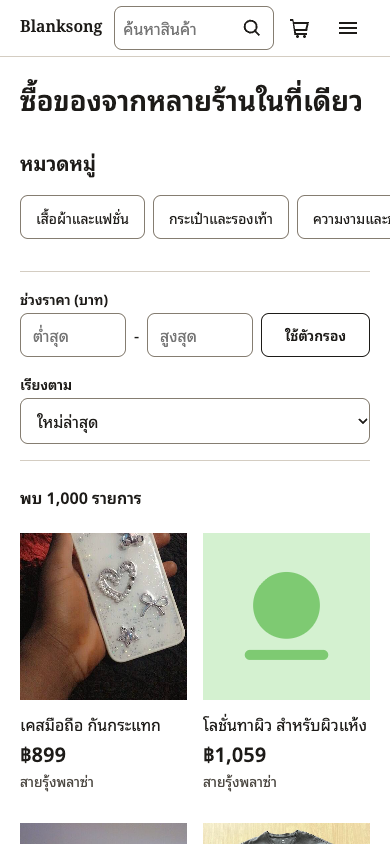
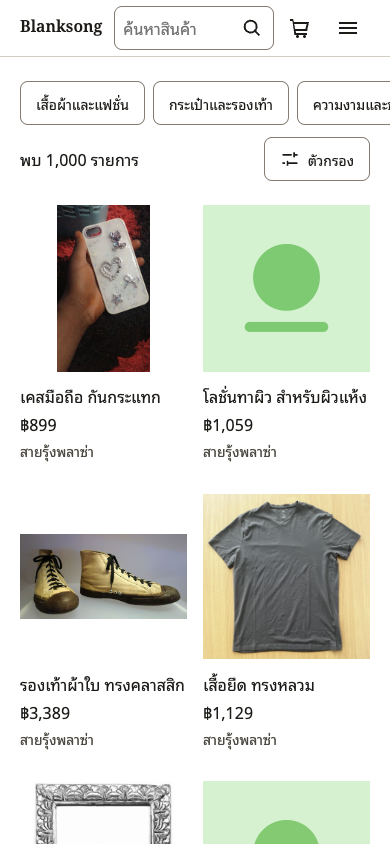
Name the active filters on an empty result, move the seller's empty-shop note under the numbers, and add round-2 screenshots
Screenshots cover home, search, storefront, open-shop, seller home and shop settings at 1440x900 and 390x844, plus the empty, not-found, validation and count-failed states.

diff --git a/src/app/seller/page.tsx b/src/app/seller/page.tsx
@@ -61,13 +61,6 @@ export default async function SellerHomePage({ searchParams }: PageProps<"/selle
           <p className={styles.meta}>สถานะร้าน {shop.status}</p>
         </div>
       </header>
-      {products.listed === 0 && (
-        <EmptyState title="ร้านของคุณยังไม่มีสินค้า">
-          <Link href="/seller/products/new" className="button">
-            ลงสินค้าชิ้นแรก
-          </Link>
-        </EmptyState>
-      )}
       <dl className={styles.stats}>
         {numbers.map((number) => (
           <div key={number.label} className={styles.stat}>
@@ -89,6 +82,13 @@ export default async function SellerHomePage({ searchParams }: PageProps<"/selle
       </dl>
       {/* ปุ่มเดียวโหลดทุกตัวเลขใหม่ หน้าจึงมีปุ่มสีเน้นไม่เกินหนึ่งปุ่ม */}
       {numbers.some((number) => number.value === null) && <RetryButton />}
+      {products.listed === 0 && (
+        <EmptyState title="ร้านของคุณยังไม่มีสินค้า">
+          <Link href="/seller/products/new" className="button">
+            ลงสินค้าชิ้นแรก
+          </Link>
+        </EmptyState>
+      )}
     </>
   );
 }

diff --git a/src/features/browse/components/browse-results.tsx b/src/features/browse/components/browse-results.tsx
@@ -68,12 +68,15 @@ function Results({ params, result }: Omit<Props, "categories">) {
           <p>
             พบ {formatNumber(result.total)} รายการ{params.q && ` สำหรับ "${params.q}"`}
           </p>
-          {filtered && result.total > 0 && (
+          {filtered && (active.length > 0 || result.total > 0) && (
             <p className={styles.active}>
               {active.length > 0 && <span>{active.join(" · ")}</span>}
-              <Link href={clearHref} className="link-action">
-                ล้างตัวกรอง
-              </Link>
+              {/* ไม่พบสินค้า ปุ่มล้างตัวกรองอยู่ในหน้าว่างแล้ว */}
+              {result.total > 0 && (
+                <Link href={clearHref} className="link-action">
+                  ล้างตัวกรอง
+                </Link>
+              )}
             </p>
           )}
         </div>

diff --git a/src/features/browse/components/browse.module.css b/src/features/browse/components/browse.module.css
@@ -6,6 +6,10 @@
   margin: 0;
 }
 
+.categories + :global(.state) {
+  margin-top: var(--space-5);
+}
+
 .chipLink {
   color: var(--color-text);
   white-space: nowrap;

diff --git a/docs/requirements/shop.md b/docs/requirements/shop.md
@@ -474,7 +474,7 @@
 - agent ตัดสินใจ: การตัดที่ 10 วินาทีเกิดในเบราว์เซอร์เท่านั้น เซิร์ฟเวอร์ไม่ยกเลิกงานที่ทำค้าง ถ้าเซิร์ฟเวอร์ช้าเกิน 10 วินาทีแต่บันทึกสำเร็จทีหลัง ผู้ใช้เห็นข้อความไม่สำเร็จทั้งที่ข้อมูลถูกบันทึกแล้ว เปิดหน้าใหม่จะเห็นข้อมูลจริง ส่วน test ตรวจเฉพาะกรณีที่ระบบไม่ตอบหรือบันทึกไม่สำเร็จ จึงยังไม่เป็นไปตาม SHP-002 กรณี "ไม่มีร้านถูกสร้าง" และ SHP-007 กรณี "หน้าร้านยังแสดงคำอธิบายเดิม" เมื่อเซิร์ฟเวอร์แค่ช้า บันทึกไว้ในข้อจำกัดที่รู้อยู่ของ README (2026-11-25)
 - agent ตัดสินใจ: หน้าร้านเริ่มด้วยโลโก้กลม ชื่อร้าน และบรรทัดเดียวที่บอกจังหวัด วันที่เปิดร้าน (เช่น "เปิดร้านเมื่อ 24 พ.ย." ตามรูปแบบวันที่ของทั้งแอป) และจำนวนสินค้า แล้วคำอธิบายร้าน สินค้าจึงเริ่มในจอแรก ปุ่ม "แก้ไขร้าน" ของเจ้าของร้านเปลี่ยนเป็นลิงก์ข้อความใต้คำอธิบาย ตามคำสั่งปรับ UX ของเจ้าของโปรเจค (2026-11-25)
 - agent ตัดสินใจ: หน้าร้านที่ยังไม่มีสินค้าเมื่อคนอื่นที่ไม่ใช่เจ้าของเปิด และหน้าร้านที่ถูกระงับ มีปุ่ม "ดูสินค้าจากร้านอื่น" ที่พากลับหน้าแรก เป็นทางไปต่อ เจ้าของร้านที่ยังไม่มีสินค้าเห็น "ลงสินค้าชิ้นแรก" แทน (2026-11-25)
-- agent ตัดสินใจ: หน้าแรกของหลังบ้านแสดงตัวเลข 4 ตัว เรียงจากเรื่องที่ต้องทำก่อน คือ "คำสั่งซื้อที่รอร้านจัดของ" "สต็อกใกล้หมด" (แบบย่อยที่สต็อก 1 ถึง 5 ตามเกณฑ์ของ INV) "สต็อกหมด" และ "สินค้าที่ขายอยู่" แต่ละตัวกดแล้วไปรายการที่ใช้จัดการเรื่องนั้น คือรายการคำสั่งซื้อที่กรอง `จ่ายแล้ว` หน้าสต็อกที่กรอง "ใกล้หมด" และ "หมด" และหน้ารายการสินค้าของร้าน แทนตัวเลขสรุป 2 ตัว ร้านที่ยังไม่มีสินค้าเห็นข้อความ "ร้านของคุณยังไม่มีสินค้า" ก่อนตัวเลข ตัวเลขที่นับไม่ได้ขึ้น "–" กับ "โหลดไม่สำเร็จ" และมีปุ่ม "ลองใหม่" ปุ่มเดียวใต้ตัวเลขทั้งหมด (2026-11-25)
+- agent ตัดสินใจ: หน้าแรกของหลังบ้านแสดงตัวเลข 4 ตัว เรียงจากเรื่องที่ต้องทำก่อน คือ "คำสั่งซื้อที่รอร้านจัดของ" "สต็อกใกล้หมด" (แบบย่อยที่สต็อก 1 ถึง 5 ตามเกณฑ์ของ INV) "สต็อกหมด" และ "สินค้าที่ขายอยู่" แต่ละตัวกดแล้วไปรายการที่ใช้จัดการเรื่องนั้น คือรายการคำสั่งซื้อที่กรอง `จ่ายแล้ว` หน้าสต็อกที่กรอง "ใกล้หมด" และ "หมด" และหน้ารายการสินค้าของร้าน แทนตัวเลขสรุป 2 ตัว ตัวเลขที่นับไม่ได้ขึ้น "–" กับ "โหลดไม่สำเร็จ" และมีปุ่ม "ลองใหม่" ปุ่มเดียวใต้ตัวเลขทั้งหมด (2026-11-25)
 - agent ตัดสินใจ: ฟอร์มเปิดร้านและตั้งค่าร้านใช้ช่องกว้างตามข้อมูล บนจอ 600 จุดขึ้นไป ชื่อผู้ส่งอยู่คู่เบอร์โทร ตำบลหรือแขวงอยู่คู่อำเภอหรือเขต จังหวัดอยู่คู่รหัสไปรษณีย์ และปุ่ม "เปิดร้าน" หรือ "บันทึก" ติดขอบล่างจอทุกขนาด กดแล้วมีช่องที่ผิด เคอร์เซอร์ย้ายไปช่องแรกที่ผิด (2026-11-25)
 - agent ตัดสินใจ: ช่องเลือกโลโก้เปลี่ยนจากช่องเลือกไฟล์ของเบราว์เซอร์ที่เป็นภาษาอังกฤษ เป็นปุ่ม "เลือกรูป" (มีโลโก้อยู่แล้วเป็น "เปลี่ยนรูป") ซึ่งเป็นป้ายของช่องเลือกไฟล์ที่ซ่อนไว้ จึงเปิดได้แม้ JavaScript ไม่โหลด และกดด้วยแป้นพิมพ์ได้ "ลบโลโก้" เปลี่ยนจากปุ่มเป็นลิงก์ข้อความ (2026-11-25)
 - agent ตัดสินใจ: SHP-Q01 วัดขณะมีผู้ใช้ 20 คนแล้วเฉพาะหน้าแรกของหลังบ้านและหน้าร้าน (`scripts/measure-speed.ts`) หน้าเปิดร้านและหน้าตั้งค่าร้านกับ SHP-Q02 การกด "เปิดร้าน" "บันทึก" และบันทึกโลโก้ ยังวัดแค่ใน test ระดับฟังก์ชันทีละคน (2026-11-25)
